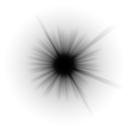
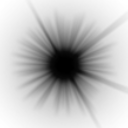
Effectively done textured particles
Though I need to do some alpha effects to really polish it off.

diff --git a/root/engine/scripts/particles.js b/root/engine/scripts/particles.js
@@ -18,6 +18,7 @@ function ParticleSimple(travelTime, countDown) {
     this.countDown = countDown;
     this.isAlive = false;
     // Effects
+    this.colour = new Vector3();
     this.tailPos = this.pos.GetCopy();
     this.tailLength = 0.0;
 }
@@ -47,7 +48,8 @@ ParticleSimple.prototype = {
     }
 };
 
-function ParticleFieldSimple(ptclCount, fieldLife, effects) {
+function ParticleFieldSimple(trfmObj, ptclCount, fieldLife, effects) {
+    this.trfmObj = trfmObj;
     this.ptclCount = ptclCount || 10;
     this.fieldLifeTime = fieldLife || 20.0;
     this.counter = this.fieldLifeTime;
@@ -70,16 +72,18 @@ function ParticleFieldSimple(ptclCount, fieldLife, effects) {
         normAxes: []
     };
 
+    this.needsSorting = effects.texture ? true : false;
+
     // Instantiate particles
     var dir = effects.dir.GetNormalized();
     for(var i = 0; i < this.ptclCount; i++) {
-        var randX = Math.random(),
-            randY = Math.random(),
-            randZ = Math.random();
-        this.ptcls.push(new ParticleSimple(effects.travelTime, effects.staggerRate * i ));
+        var randomX = Math.random(),
+            randomY = Math.random(),
+            randomZ = Math.random();
+        this.ptcls.push(new ParticleSimple(effects.travelTime, effects.staggerRate * i));
 
-        var randConeAngle = (effects.range / 2.0) * ((randX*2) - 1);
-        var randRotAngle = 360 * randY;
+        var randConeAngle = (effects.range / 2.0) * (randomX * 2) - 1;
+        var randRotAngle = 360 * randomY;
         var randDir = dir.GetRotated(randConeAngle, dir.GetOrthoAxis());
         randDir.SetRotated(randRotAngle, dir);
 
@@ -88,19 +92,26 @@ function ParticleFieldSimple(ptclCount, fieldLife, effects) {
         this.ptcls[i].startAcc.SetCopy(effects.acc);
         this.ptcls[i].dampening = effects.dampening;
 
-        var ptclColour = [
-            (effects.colourTop.x - effects.colourBtm.x) * randX + effects.colourBtm.x,
-            (effects.colourTop.y - effects.colourBtm.y) * randY + effects.colourBtm.y,
-            (effects.colourTop.z - effects.colourBtm.z) * randZ + effects.colourBtm.z
-        ];
+        this.ptcls[i].colour.SetValues(
+            (effects.colourTop.x - effects.colourBtm.x) * randomX + effects.colourBtm.x,
+            (effects.colourTop.y - effects.colourBtm.y) * randomY + effects.colourBtm.y,
+            (effects.colourTop.z - effects.colourBtm.z) * randomZ + effects.colourBtm.z
+        );
 
+        // Once positions are established, sort from back to front
+        // This stays here uniquely because it's using StartPos, not regular pos;
+        if(this.needsSorting)
+            this.SortForLaunch(i);
+    }
+
+    for(var i = 0; i < this.ptcls.length; i++) {
         ptclVerts.posCoords = ptclVerts.posCoords.concat(this.ptcls[i].pos.GetData());
-        ptclVerts.colElems = ptclVerts.colElems.concat(ptclColour);
+        ptclVerts.colElems = ptclVerts.colElems.concat(this.ptcls[i].colour.GetData());
 
         if(effects.lineLength > 0) {
             this.ptcls[i].tailLength = effects.lineLength;
             ptclVerts.posCoords = ptclVerts.posCoords.concat(this.ptcls[i].tailPos.GetData());
-            ptclVerts.colElems = ptclVerts.colElems.concat(ptclColour);
+            ptclVerts.colElems = ptclVerts.colElems.concat(this.ptcls[i].colour.GetData());
         }
     }
 
@@ -115,6 +126,51 @@ function ParticleFieldSimple(ptclCount, fieldLife, effects) {
         this.fieldHdlr = new PtclFieldHandler(ptclVerts, DrawMethods.lines);
 }
 ParticleFieldSimple.prototype = {
+    SortForLaunch: function(idx) {
+        if(idx > 0) {
+            do {
+                var distThisPtcl = this.ptcls[idx].startPos.GetAdd(this.trfmObj.pos).SetSubtract(ViewMngr.activeCam.posGbl).GetMagSqr();
+                var distPrevPtcl = this.ptcls[idx - 1].startPos.GetAdd(this.trfmObj.pos).SetSubtract(ViewMngr.activeCam.posGbl).GetMagSqr();
+
+                if (distThisPtcl > distPrevPtcl) {
+                    RefUtils.Swap(this.ptcls, idx, idx - 1);
+                    idx--;
+                }
+                else
+                    idx = 0;
+            }
+            while (idx > 0);
+        }
+    },
+    SortPtcl: function(idx) {
+        if(idx > 0) {
+            do {
+                var distThisPtcl = this.ptcls[idx].pos.GetAdd(this.trfmObj.pos).SetSubtract(ViewMngr.activeCam.posGbl).GetMagSqr();
+                var distPrevPtcl = this.ptcls[idx - 1].pos.GetAdd(this.trfmObj.pos).SetSubtract(ViewMngr.activeCam.posGbl).GetMagSqr();
+
+                if (distThisPtcl > distPrevPtcl) {
+                    RefUtils.Swap(this.ptcls, idx, idx - 1);
+                    idx--;
+                }
+                else
+                    idx = 0;
+            }
+            while (idx > 0);
+        }
+    },
+    BuildPtclObj: function() {
+        var newPosCoords = [];
+        var newColElems = [];
+        for (var i = 0; i < this.ptcls.length; i++) {
+            newPosCoords = newPosCoords.concat(this.ptcls[i].pos.GetData());
+            newColElems = newColElems.concat(this.ptcls[i].colour.GetData());
+            if(this.ptcls[i].tailLength > 0) {
+                newPosCoords = newPosCoords.concat(this.ptcls[i].tailPos.GetData());
+                newColElems = newColElems.concat(this.ptcls[i].colour.GetData());
+            }
+        }
+        this.fieldHdlr.RewriteVerts(newPosCoords.concat(newColElems));
+    },
     DefinePtclFade: function(endAlpha, fromTime) {
 
     },
@@ -127,15 +183,13 @@ ParticleFieldSimple.prototype = {
         /* This loop function is implemented to allow each particle field to slowly stagger
          * in, update, and stagger out all of it's particles, so they don't all have to arrive
          * or disappear at the same time. */
-        var newPosCoords = [];
-
         if(this.deadPtcls > 0) {
             for (var i = 0; i < this.ptcls.length; i++) {
                 // This will stagger them out accordingly,
                 // as pre-set in constructor
-                if(this.ptcls[i].isAlive == false) {
+                if (this.ptcls[i].isAlive == false) {
                     this.ptcls[i].countDown -= Time.deltaMilli;
-                    if(this.ptcls[i].countDown <= 0) {
+                    if (this.ptcls[i].countDown <= 0) {
                         this.ptcls[i].isAlive = true;
                         this.deadPtcls--;
                         this.ptcls[i].Reset();
@@ -144,11 +198,11 @@ ParticleFieldSimple.prototype = {
                 else {
                     this.ptcls[i].Update();
                 }
-                newPosCoords = newPosCoords.concat(this.ptcls[i].pos.GetData());
-                if(this.ptcls[i].tailLength > 0)
-                    newPosCoords = newPosCoords.concat(this.ptcls[i].tailPos.GetData());
+                if(this.needsSorting)
+                    this.SortPtcl(i);
             }
-            this.fieldHdlr.RewriteVerts(newPosCoords);
+            // Needs to happen after sorting, to draw properly
+            this.BuildPtclObj();
         }
         else {
             this.Callback = this.Update;
@@ -159,25 +213,22 @@ ParticleFieldSimple.prototype = {
         /* This loop function is implemented to allow each particle field to slowly stagger
          * in, update, and stagger out all of it's particles, so they don't all have to arrive
          * or disappear at the same time. */
-        var newPosCoords = [];
         for (var i = 0; i < this.ptcls.length; i++) {
             this.ptcls[i].Update();
-            newPosCoords = newPosCoords.concat(this.ptcls[i].pos.GetData());
-            if(this.ptcls[i].tailLength > 0)
-                newPosCoords = newPosCoords.concat(this.ptcls[i].tailPos.GetData());
+            if(this.needsSorting)
+                this.SortPtcl(i);
         }
-        this.fieldHdlr.RewriteVerts(newPosCoords);
+        // Needs to happen after sorting, to draw properly
+        this.BuildPtclObj();
         this.CheckEnd();
     },
     Terminate: function() {
         /* This loop function is implemented to allow each particle field to slowly stagger
          * in, update, and stagger out all of it's particles, so they don't all have to arrive
          * or disappear at the same time. */
-        var newPosCoords = [];
-
         if(this.deadPtcls < this.ptcls.length) {
             for (var i = 0; i < this.ptcls.length; i++) {
-                if(this.ptcls[i].isAlive) {
+                if (this.ptcls[i].isAlive) {
                     this.ptcls[i].Update();
                     // This condition is met on during each particle's reset.
                     if (this.ptcls[i].countDown >= this.ptcls[i].travelTime - Time.deltaMilli) {
@@ -186,12 +237,11 @@ ParticleFieldSimple.prototype = {
                         this.ptcls[i].tailPos.SetValues(0.0, 999.0, 0.0);
                         this.deadPtcls++;
                     }
+                    if(this.needsSorting)
+                        this.SortPtcl(i);
                 }
-                newPosCoords = newPosCoords.concat(this.ptcls[i].pos.GetData());
-                if(this.ptcls[i].tailLength > 0)
-                    newPosCoords = newPosCoords.concat(this.ptcls[i].tailPos.GetData());
             }
-            this.fieldHdlr.RewriteVerts(newPosCoords);
+            this.BuildPtclObj();
         }
         else {
             // Reset things
@@ -199,6 +249,10 @@ ParticleFieldSimple.prototype = {
             this.counter = this.fieldLifeTime;
             for (var i = 0; i < this.ptcls.length; i++) {
                 this.ptcls[i].countDown = this.stagger * i;
+
+                // Resort based on start pos to make sure next iteration starts off smooth
+                if(this.needsSorting)
+                    this.SortForLaunch(i);
             }
             this.active = false;
         }
@@ -311,7 +365,7 @@ function ParticleSystem(trfmObj) {
 }
 ParticleSystem.prototype = {
     AddSimpleField: function(ptclCount, fieldLife, effects) {
-        this.simpleFields.push(new ParticleFieldSimple(ptclCount, fieldLife, effects));
+        this.simpleFields.push(new ParticleFieldSimple(this.trfmObj, ptclCount, fieldLife, effects));
     },
     AddTail: function(ptclCount, fieldLife, effects) {
         this.tails.push(new FlatTail(this.trfmObj, ptclCount, fieldLife, effects));

diff --git a/root/game/scripts/scene5.js b/root/game/scripts/scene5.js
@@ -81,11 +81,11 @@ function BuildScene5(scene) {
     effects.staggerRate = 0.1;
     effects.startDist = 5.0;
     effects.dir = new Vector3(1.0, 1.0, -1.0);
-    effects.range = 5.0;
-    effects.speed = 10.0;
-    effects.acc = new Vector3(-4.0, -2.0, 2.0);
+    effects.range = 360.0;
+    effects.speed = 1.0;
+    effects.acc = new Vector3(0.0, 1.0, 0.0);
     effects.dampening = 1.0;
-    effects.colourBtm = new Vector3(1.0, 0.0, 1.0);
+    effects.colourBtm = new Vector3(1.0, 0.0, 0.0);
     effects.colourTop = new Vector3(1.0, 1.0, 1.0);
     effects.lineLength = 0.0;
     effects.alphaStart = 1.0;

diff --git a/root/engine/scripts/enginePreloader.js b/root/engine/scripts/enginePreloader.js
@@ -56,6 +56,7 @@ var EL = {
             ['ice', 'engine/assets/images/iceTexture.jpg'],
             ['purply', 'engine/assets/images/purplePlanet.jpg'],
             ['star', 'engine/assets/images/star.png'],
+            ['flower', 'engine/assets/images/flower.png'],
             ['fontMapBasic', 'engine/assets/images/FontSheetBasic.png'],
             ['fontMapBasicBold', 'engine/assets/images/FontSheetBasicBold.png']
         ];

diff --git a/root/engine/scripts/utility.js b/root/engine/scripts/utility.js
@@ -470,3 +470,11 @@ var WndUtils = {
         return wndY / (0.5 * ViewMngr.wndHeight);
     }
 };
+
+var RefUtils = {
+    Swap: function(arr, idx1, idx2) {
+        var temp = arr[idx1];
+        arr[idx1] = arr[idx2];
+        arr[idx2] = temp;
+    }
+};
